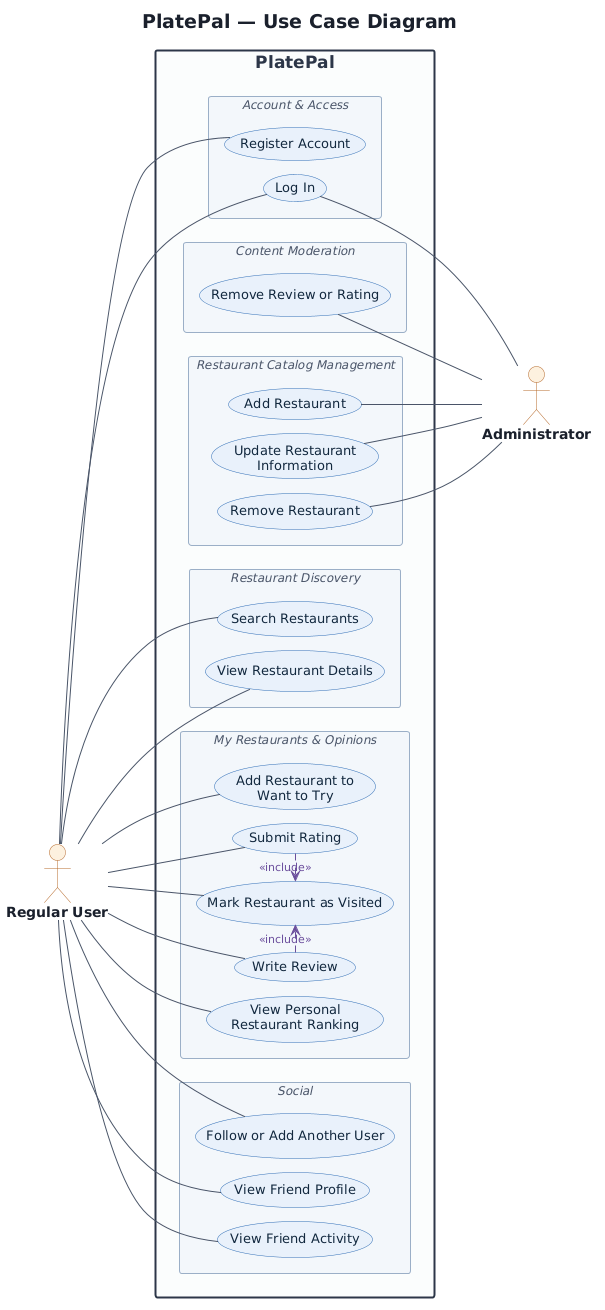
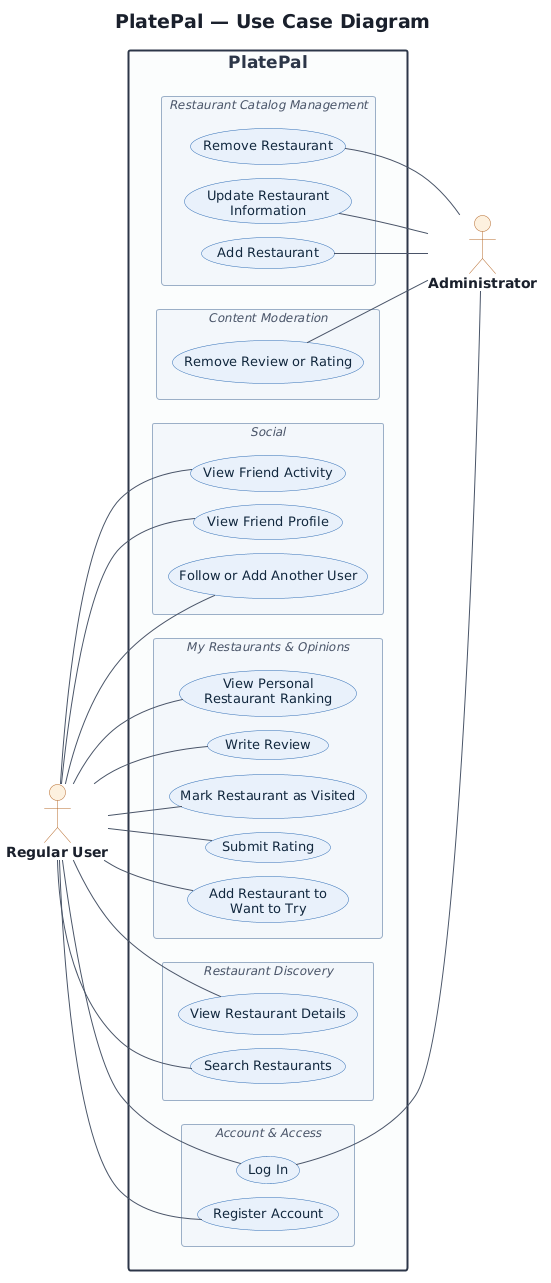
Removed include relationship + Added preconditions to case descriptions

diff --git a/docs/use-case-diagram/Use Case Diagram.md b/docs/use-case-diagram/Use Case Diagram.md
@@ -76,7 +76,7 @@
 |---|---|
 | **UC Reference Name/Number** | UC06 — Mark Restaurant as Visited |
 | **Overview** | The system records that the user has visited a restaurant, moving it onto their Visited list. The user may perform this on its own without rating or reviewing the restaurant. |
-| **Related use cases** | Included by UC07 Submit Rating and UC08 Write Review. Remains independently available to the user. |
+| **Related use cases** | Precondition of UC07 Submit Rating and UC08 Write Review — a restaurant must be marked as visited before it can be rated or reviewed. Remains independently available to the user. |
 | **Actors** | Regular User |
 
 ### UC07 — Submit Rating
@@ -84,8 +84,9 @@
 | | |
 |---|---|
 | **UC Reference Name/Number** | UC07 — Submit Rating |
-| **Overview** | The user gives a restaurant a score and the system stores it against their account, contributing to their personal ranking. Submitting a rating always marks the restaurant as visited. |
-| **Related use cases** | `<<include>>` UC06 Mark Restaurant as Visited. |
+| **Overview** | The user gives a restaurant a score and the system stores it against their account, contributing to their personal ranking. |
+| **Preconditions** | The restaurant must already be marked as visited (UC06 Mark Restaurant as Visited). |
+| **Related use cases** | Depends on UC06 Mark Restaurant as Visited as a precondition. |
 | **Actors** | Regular User |
 
 ### UC08 — Write Review
@@ -93,8 +94,9 @@
 | | |
 |---|---|
 | **UC Reference Name/Number** | UC08 — Write Review |
-| **Overview** | The user writes a written review of a restaurant and the system stores and publishes it. Posting a review always marks the restaurant as visited. |
-| **Related use cases** | `<<include>>` UC06 Mark Restaurant as Visited. |
+| **Overview** | The user writes a written review of a restaurant and the system stores and publishes it. |
+| **Preconditions** | The restaurant must already be marked as visited (UC06 Mark Restaurant as Visited). |
+| **Related use cases** | Depends on UC06 Mark Restaurant as Visited as a precondition. |
 | **Actors** | Regular User |
 
 ### UC09 — View Personal Restaurant Ranking
